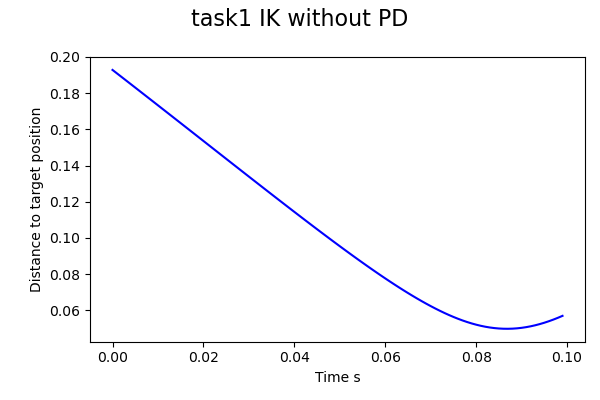
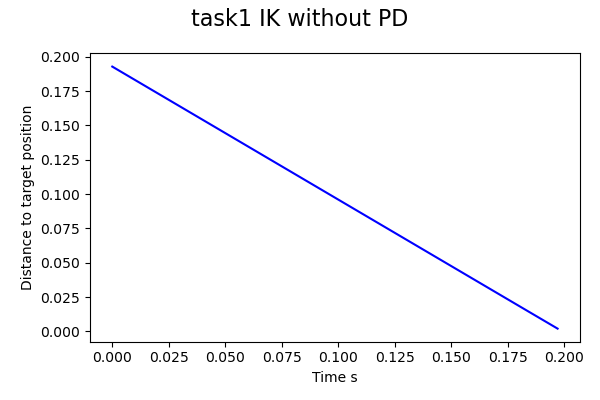
Fixed IK

diff --git a/core/Pybullet_Simulation.py b/core/Pybullet_Simulation.py
@@ -108,7 +108,7 @@ class Simulation(Simulation_base):
         # their corresponding homogeneous transformation matrices as values 
         moveableJoints = list(self.jointRotationAxis)[2:len(list(self.jointRotationAxis))-2]
         for jointName in moveableJoints:
-            RotMat = self.getJointRotationalMatrix(jointName, theta=self.getJointPos(jointName))
+            RotMat = self.getJointRotationalMatrix(jointName, theta=self.jointTargetPos[jointName])
             Trans = self.frameTranslationFromParent[jointName]
 
             TransMat = np.array([[RotMat[0,0],RotMat[0,1],RotMat[0,2],Trans[0]],
@@ -241,6 +241,10 @@ class Simulation(Simulation_base):
             angles = list(self.convertAngle(np.array(traj[n-1])+dq))
             traj.append(angles)
             EFpos = TargetPositions[n]
+            print("IK", n)
+            jointStates = dict(zip(joints, angles))
+            for j in joints: self.jointTargetPos[j] = jointStates[j]
+
             if np.linalg.norm((targetPosition - EFpos)) < threshold:
                 break
 

diff --git a/task1/task1.py b/task1/task1.py
@@ -61,7 +61,7 @@ endEffector = "LARM_JOINT5"
 targetPosition = np.array([0.37, 0.23, 1.06385])  # x,y,z coordinates in world frame
 
 # Example code. Feel free to modify
-pltTime, pltEFPosition = sim.move_without_PD(endEffector, targetPosition, speed=0.01, orientation=None, threshold=1e-3, maxIter=3000, debug=False, verbose=False)
+pltTime, pltEFPosition = sim.move_without_PD(endEffector, targetPosition, speed=0.01, orientation=None, threshold=1e-3, maxIter=200, debug=False, verbose=False)
 
 # Now plot some graphs
 task1_figure_name = "task1_kinematics.png"
